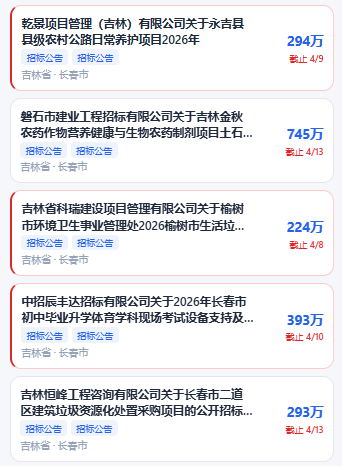
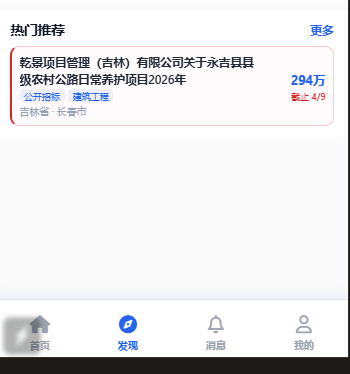
feat: 添加公告类型和行业类别智能分类

diff --git a/client/screens/home/index.tsx b/client/screens/home/index.tsx
@@ -522,12 +522,13 @@ export default function HomeScreen() {
   const renderBidItem = useCallback(({ item, index }: { item: Bid; index: number }) => {
     const isWinBid = item.isWinBid;
     // 规范化公告类型名称
-    const displayType = item.announcement_type || item.bid_type || (isWinBid ? '中标' : '招标');
+    // 优先使用智能分类的公告类型
+    const displayType = item.classifiedType || item.announcement_type || item.bid_type || (isWinBid ? '中标' : '招标');
     
-    // 规范化行业名称：如果industry是代码格式（如S912），则显示bid_type
-    const displayIndustry = item.industry && !/^[A-Z]\d{3}$/.test(item.industry) 
-      ? item.industry 
-      : displayType;
+    // 优先使用智能分类的行业，规范化行业名称
+    const displayIndustry = item.classifiedIndustry && item.classifiedIndustry.trim() !== '' 
+      ? item.classifiedIndustry 
+      : (item.industry && !/^[A-Z]\d{3}$/.test(item.industry) ? item.industry : null);
     
     return (
       <TouchableOpacity
@@ -547,14 +548,16 @@ export default function HomeScreen() {
           <View style={styles.bidMetaRow}>
             <View style={[styles.bidTag, isWinBid && styles.bidTagWin]}>
               <Text style={[styles.bidTagText, isWinBid && styles.bidTagWinText]}>
-                {displayIndustry?.slice(0, 6) || '项目'}
-              </Text>
-            </View>
-            <View style={[styles.bidTag, isWinBid && styles.bidTagWin]}>
-              <Text style={[styles.bidTagText, isWinBid && styles.bidTagWinText]}>
                 {displayType}
               </Text>
             </View>
+            {displayIndustry && displayIndustry.trim() !== '' && (
+              <View style={[styles.bidTag, isWinBid && styles.bidTagWin]}>
+                <Text style={[styles.bidTagText, isWinBid && styles.bidTagWinText]}>
+                  {displayIndustry.slice(0, 6)}
+                </Text>
+              </View>
+            )}
           </View>
           <Text style={styles.bidLocation} numberOfLines={1}>
             {item.province} · {item.city}

diff --git a/client/screens/bidList/index.tsx b/client/screens/bidList/index.tsx
@@ -249,13 +249,13 @@ export default function BidListScreen() {
       activeOpacity={0.7}
     >
       <View style={styles.cardHeader}>
+        <View style={styles.typeTag}>
+          <Text style={styles.typeTagText}>{item.classifiedType || item.bid_type || '招标'}</Text>
+        </View>
         <View style={styles.categoryTag}>
           <Text style={styles.categoryTagText} numberOfLines={1}>
-            {item.industry?.slice(0, 4) || '项目'}
+            {item.classifiedIndustry && item.classifiedIndustry.trim() !== '' ? item.classifiedIndustry.slice(0, 4) : '项目'}
           </Text>
-        </View>
-        <View style={styles.typeTag}>
-          <Text style={styles.typeTagText}>{item.bid_type || '招标'}</Text>
         </View>
       </View>
       <Text style={styles.bidTitle} numberOfLines={2}>
@@ -280,14 +280,14 @@ export default function BidListScreen() {
       activeOpacity={0.7}
     >
       <View style={styles.cardHeader}>
-        <View style={[styles.categoryTag, styles.winCategoryTag]}>
-          <Text style={styles.categoryTagText} numberOfLines={1}>
-            {item.industry?.slice(0, 4) || '中标'}
-          </Text>
-        </View>
         <View style={styles.winTag}>
           <FontAwesome6 name="trophy" size={10} color="#FFFFFF" />
-          <Text style={styles.winTagText} numberOfLines={1}>{item.bid_type || '中标'}</Text>
+          <Text style={styles.winTagText} numberOfLines={1}>{item.classifiedType || item.bid_type || '中标'}</Text>
+        </View>
+        <View style={[styles.categoryTag, styles.winCategoryTag]}>
+          <Text style={styles.categoryTagText} numberOfLines={1}>
+            {item.classifiedIndustry && item.classifiedIndustry.trim() !== '' ? item.classifiedIndustry.slice(0, 4) : '中标'}
+          </Text>
         </View>
       </View>
       <Text style={styles.bidTitle} numberOfLines={2}>

diff --git a/client/screens/search/index.tsx b/client/screens/search/index.tsx
@@ -445,11 +445,13 @@ export default function SearchScreen() {
       >
         <View style={styles.cardHeader}>
           <View style={styles.categoryTag}>
-            <Text style={styles.categoryTagText}>{item.industry || '综合'}</Text>
+            <Text style={styles.categoryTagText}>
+              {item.classifiedIndustry && item.classifiedIndustry.trim() !== '' ? item.classifiedIndustry : '综合'}
+            </Text>
           </View>
           <View style={[styles.typeTag, isWinBid && styles.typeTagWin]}>
             <Text style={[styles.typeTagText, isWinBid && styles.typeTagTextWin]}>
-              {item.bid_type || (isWinBid ? '中标' : '招标')}
+              {item.classifiedType || item.bid_type || (isWinBid ? '中标' : '招标')}
             </Text>
           </View>
         </View>

diff --git a/client/screens/history/index.tsx b/client/screens/history/index.tsx
@@ -83,7 +83,7 @@ function HistoryItemCard({ item, styles, onPress }: HistoryItemCardProps) {
       <View style={styles.cardHeader}>
         <View style={styles.categoryTag}>
           <Text style={styles.categoryTagText} numberOfLines={1}>
-            {bid.industry?.slice(0, 4) || '项目'}
+            {bid.classifiedIndustry && bid.classifiedIndustry.trim() !== '' ? bid.classifiedIndustry.slice(0, 4) : '项目'}
           </Text>
         </View>
       </View>

diff --git a/client/screens/favorites/index.tsx b/client/screens/favorites/index.tsx
@@ -143,7 +143,7 @@ export default function FavoritesScreen() {
           </Text>
         </View>
         <View style={styles.typeTag}>
-          <Text style={styles.typeTagText}>{item.bids.bid_type || '招标'}</Text>
+          <Text style={styles.typeTagText}>{item.bids.classifiedType || item.bids.bid_type || '招标'}</Text>
         </View>
         <TouchableOpacity
           style={styles.removeButton}
